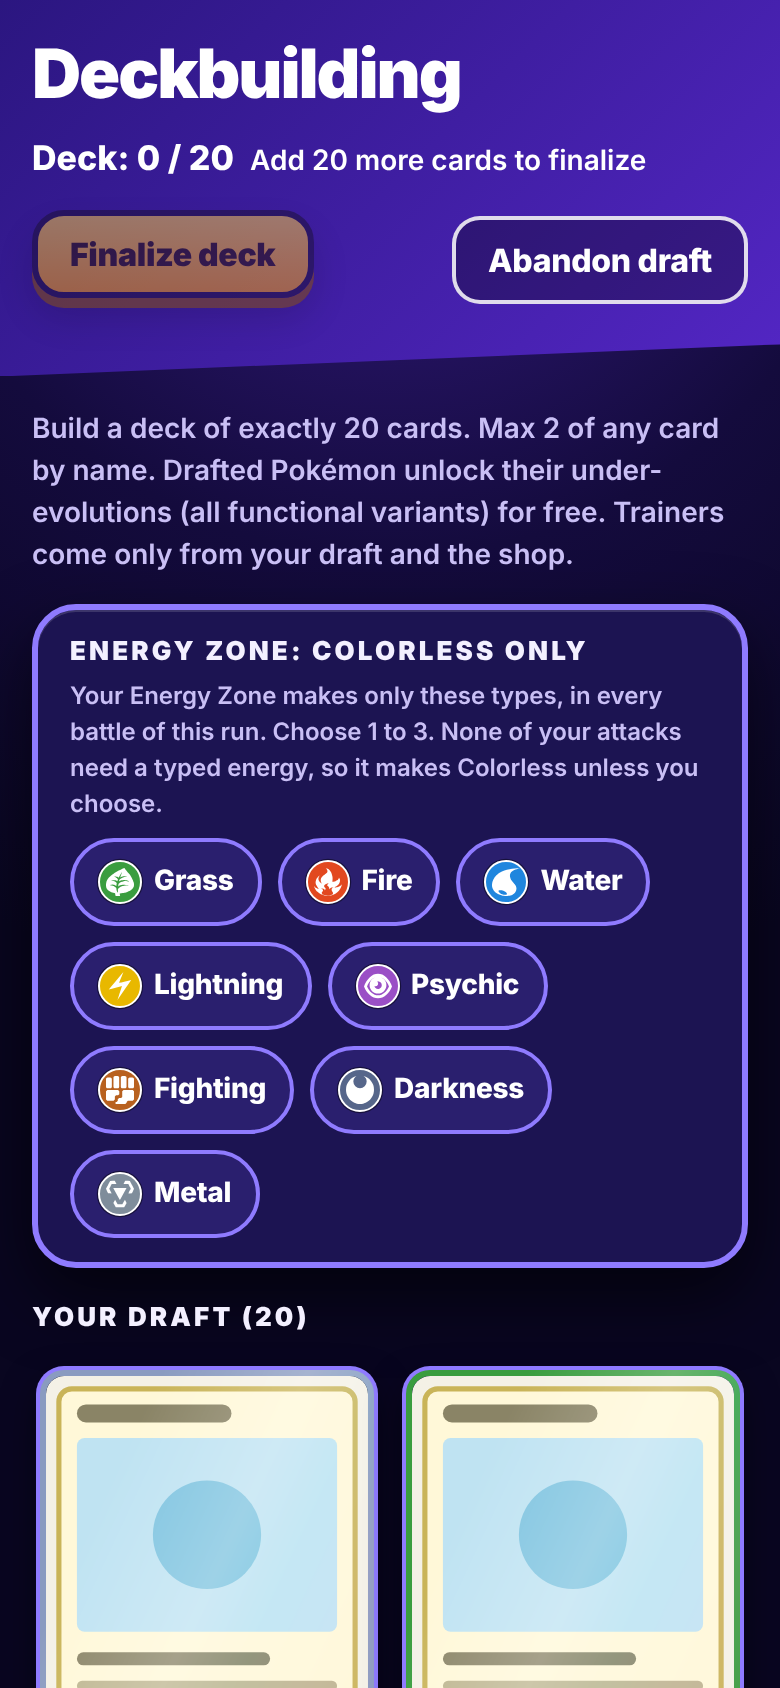
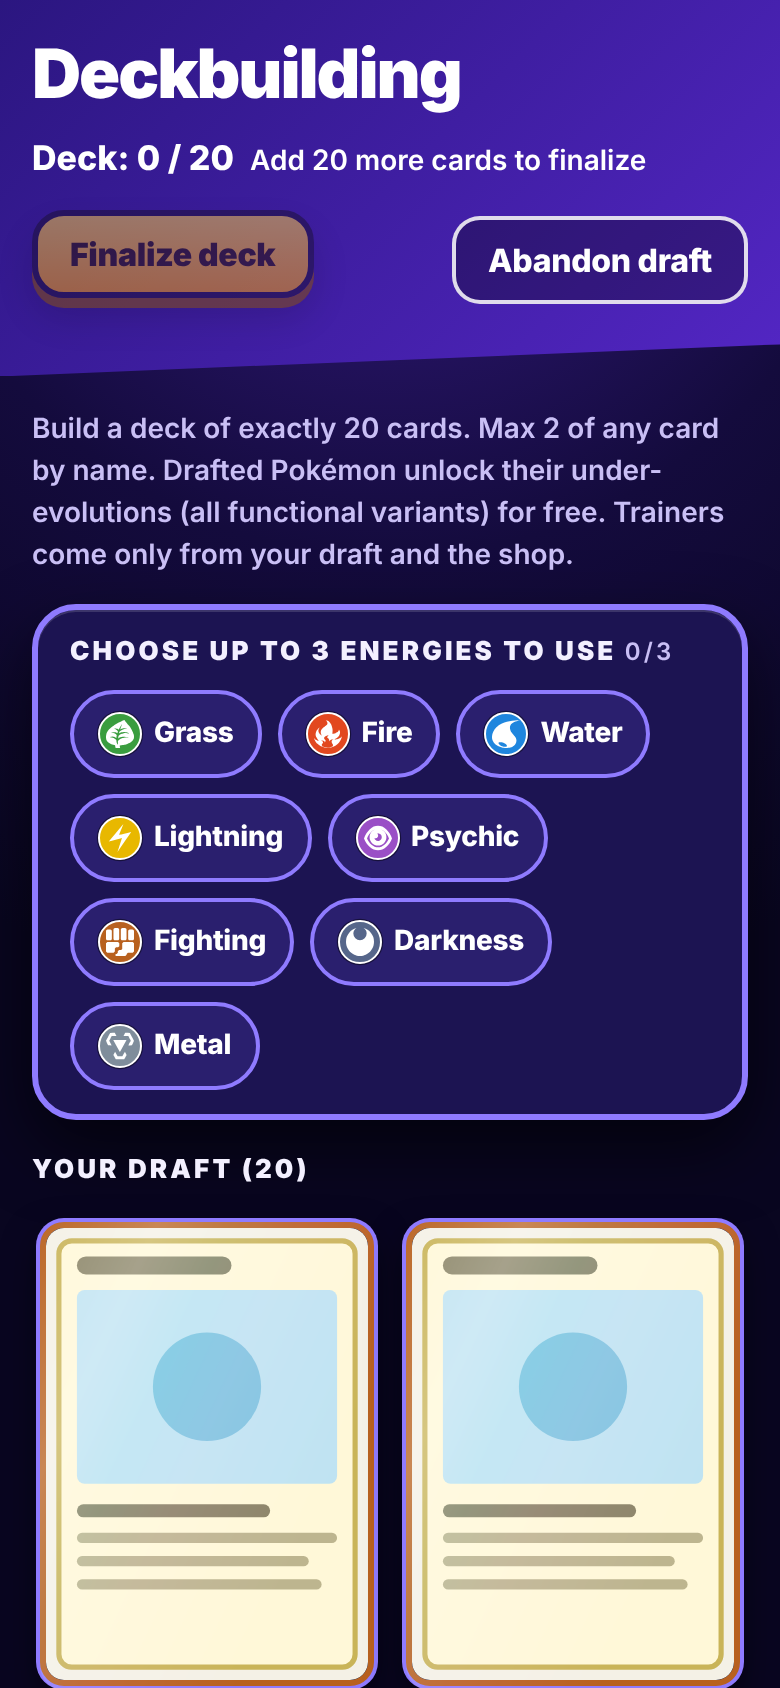
Review fixes: loading screen in the look, theme set before first paint, sheen off under reduced motion, Energy Zone count read aloud, one less line

diff --git a/e2e/energy-picker.spec.ts b/e2e/energy-picker.spec.ts
@@ -33,11 +33,11 @@ test('the Energy Zone picker reaches every battle: only Water or Fire show', asy
   // Owner 2026-10-28 (item 6): a short label, no extra lines. Empty deck: one short line.
   const picker = page.getByTestId('energy-picker');
   await expect(page.getByText('Deck: 0 / 20')).toBeVisible();
-  await expect(picker.getByRole('heading', { name: 'Choose up to 3 energies to use', exact: true })).toBeVisible();
-  await expect(picker.locator('p')).toHaveCount(1);
-  await expect(picker.locator('p')).toHaveText('No typed energy needed yet: Colorless only.');
+  await expect(picker.getByRole('heading', { name: /^Choose up to 3 energies to use/ })).toBeVisible();
+  await expect(picker.locator('p')).toHaveCount(0);
+  await expect(picker.getByTestId('energy-count')).toHaveText('0/3');
 
-  // Fill the deck first so the default (from the deck's Pokémon types) is on show.
+  // Fill the deck first so the default (from the deck's attack costs) is on show.
   const drafted = page.locator('section', { has: page.getByRole('heading', { name: /^Your draft/ }) });
   const plus = drafted.getByRole('button', { name: '+' });
   for (let i = 0; i < (await plus.count()); i++) {
@@ -66,7 +66,7 @@ test('the Energy Zone picker reaches every battle: only Water or Fire show', asy
 
   await choose(page, ['Water', 'Fire']);
   await expect(picker.locator('button[aria-pressed="true"]')).toHaveCount(2);
-  await expect(picker.getByRole('heading', { name: 'Choose up to 3 energies to use', exact: true })).toBeVisible();
+  await expect(picker.getByRole('heading', { name: /^Choose up to 3 energies to use/ })).toBeVisible();
   await expect(picker.getByTestId('energy-count')).toHaveText('2/3');
 
   await picker.scrollIntoViewIfNeeded();

diff --git a/docs/chief/look/m4-blend/render.spec.ts b/docs/chief/look/m4-blend/render.spec.ts
@@ -40,6 +40,8 @@ const settled = (page: Page) =>
 async function shot(page: Page, name: string, theme: Theme) {
   await page.evaluate(() => window.scrollTo(0, 0));
   await settled(page);
+  // The sheen is off under reduced motion, so shots run with motion on and every sheen frozen mid-sweep.
+  await page.addStyleTag({ content: '.look *::after { animation-play-state: paused !important; animation-delay: -1.1s !important; }' });
   await page.waitForTimeout(300);
   await page.screenshot({ path: path.join(OUT, `${name}-${theme}-390.png`) });
 }
@@ -57,7 +59,7 @@ test('every non-battle screen, light then dark', async ({ page }) => {
   const snap: Record<string, string> = {};
 
   // ---- light: drive the app ----
-  await page.emulateMedia({ colorScheme: 'light' });
+  await page.emulateMedia({ colorScheme: 'light', reducedMotion: 'no-preference' });
   await page.goto('/');
   await expect(page.getByRole('button', { name: 'Start draft' })).toBeVisible();
   await shot(page, 'home', 'light');
@@ -117,7 +119,7 @@ test('every non-battle screen, light then dark', async ({ page }) => {
   await summaryWon('light');
 
   // ---- dark: the same states, seeded ----
-  await page.emulateMedia({ colorScheme: 'dark' });
+  await page.emulateMedia({ colorScheme: 'dark', reducedMotion: 'no-preference' });
   await page.evaluate(() => localStorage.clear());
   await page.goto('/');
   await expect(page.getByRole('button', { name: 'Start draft' })).toBeVisible();

diff --git a/src/components/DeckbuildView.tsx b/src/components/DeckbuildView.tsx
@@ -2,7 +2,7 @@ import { useMemo, useState } from 'react';
 import { announce } from '../announce';
 import { AbandonDraft } from './AbandonDraft';
 import { EnergyIcon, TypeTally } from '../battle/energy';
-import { defaultZoneTypes, MAX_ZONE_TYPES, ZONE_FALLBACK, ZONE_TYPES } from '../game/energy';
+import { defaultZoneTypes, MAX_ZONE_TYPES, ZONE_TYPES } from '../game/energy';
 import type { Card, EnergyType } from '../types/card';
 import { DECK_SIZE } from '../stores/draftStore';
 import {
@@ -237,15 +237,10 @@ export function DeckbuildView({
         <div className="zone-picker" role="group" data-testid="energy-picker" aria-labelledby="zone-title">
           <h2 id="zone-title" className="section-title" style={{ color: 'var(--color-text)', margin: '0 0 8px' }}>
             Choose up to {MAX_ZONE_TYPES} energies to use{' '}
-            <span data-testid="energy-count" className="muted-xs" aria-hidden="true">
+            <span data-testid="energy-count" className="muted-xs">
               {zone.length}/{MAX_ZONE_TYPES}
             </span>
           </h2>
-          {zone.length === 0 && (
-            <p className="muted-xs" style={{ margin: '0 0 8px' }}>
-              No typed energy needed yet: {ZONE_FALLBACK} only.
-            </p>
-          )}
           <div className="zone-picker-row" role="group" aria-label="Energy Zone types">
             {ZONE_TYPES.map((t) => {
               const on = zone.includes(t);

diff --git a/e2e/theme-toggle.spec.ts b/e2e/theme-toggle.spec.ts
@@ -86,3 +86,21 @@ test('a page whose storage is blocked still opens, on Auto, and the toggle still
   await option(page, 'Dark').click();
   expect(await pageColour(page)).toBe(DARK_PAGE);
 });
+
+test('a saved choice is set by index.html before any app script runs', async ({ page }) => {
+  await page.emulateMedia({ colorScheme: 'light' });
+  await page.addInitScript(() => localStorage.setItem('pocket-draft-theme', 'dark'));
+  await page.route('**/src/main.tsx*', (r) => r.abort()); // no app code at all
+  await page.goto('/');
+  expect(await themeAttr(page)).toBe('dark');
+});
+
+test('the holo sheen is off under reduced motion', async ({ page }) => {
+  const sheen = () =>
+    page.evaluate(() => getComputedStyle(document.querySelector('.home-primary')!, '::after').display);
+  await page.emulateMedia({ reducedMotion: 'no-preference' }); // the suite runs reduced by default
+  await home(page);
+  expect(await sheen()).not.toBe('none');
+  await page.emulateMedia({ reducedMotion: 'reduce' });
+  await expect.poll(sheen).toBe('none');
+});

diff --git a/src/look.css b/src/look.css
@@ -493,14 +493,14 @@ body {
   35%, 100% { background-position: 100% 0; }
 }
 
-/* Reduced motion: the sheen holds still as a fixed diagonal glint; the main button does not move. */
+/* Reduced motion: the sheen is off (owner, 2026-10-28); the main button does not move. */
 @media (prefers-reduced-motion: reduce) {
   .look :is(.tile-lg, .tile-sm)::after,
   .look :is(.btn-primary, .run-btn-primary, .home-primary)::after,
   .look .run-summary[data-status='won'] h1.run-status::after {
     animation: none;
-    background-position: 40% 0;
     transition: none;
+    display: none;
   }
   .look :is(.btn-primary, .run-btn-primary, .home-primary) { transition: none; }
   .look :is(.btn-primary, .run-btn-primary, .home-primary):active:not(:disabled) { transform: none; }

diff --git a/index.html b/index.html
@@ -4,6 +4,13 @@
     <meta charset="UTF-8" />
     <meta name="viewport" content="width=device-width, initial-scale=1.0" />
     <title>Pocket Draft</title>
+    <script>
+      // A saved Light / Dark choice, set before the CSS paints (src/theme.ts does the same).
+      try {
+        var t = localStorage.getItem('pocket-draft-theme');
+        if (t === 'light' || t === 'dark') document.documentElement.setAttribute('data-theme', t);
+      } catch (e) {}
+    </script>
   </head>
   <body>
     <div id="root"></div>

diff --git a/docs/chief/look/m4-blend/render.config.ts b/docs/chief/look/m4-blend/render.config.ts
@@ -15,7 +15,7 @@ export default defineConfig({
   testDir: here,
   testMatch: ['render.spec.ts'],
   outputDir: path.join(root, 'test-results/m4-blend'),
-  // Screenshots are taken with reduced motion, so the holo sheen is the still glint (deterministic).
+  // render.spec.ts turns motion on and freezes the holo sheen mid-sweep, so shots are deterministic.
   use: { ...base.use, viewport: { width: 390, height: 844 }, deviceScaleFactor: 2 },
   webServer: servers.map((s) => ({ ...s, cwd: root })),
 });

diff --git a/src/App.tsx b/src/App.tsx
@@ -205,7 +205,7 @@ export function App() {
   if (replayed) return screen('replay', <ReplayView battle={replayed} onExit={closeReplay} />);
 
   if (error) return screen('error', <main role="alert" style={{ padding: 24 }}>Error: {error}</main>);
-  if (!pool) return <main role="status" style={{ padding: 24 }}>Loading card data…</main>;
+  if (!pool) return screen('loading', <main role="status" style={{ padding: 24 }}>Loading card data…</main>);
 
   if (sharedDeck) {
     return screen('shared', (

diff --git a/src/data/index.ts b/src/data/index.ts
@@ -27,6 +27,7 @@ export async function loadCardPool(): Promise<CardPool> {
     loadSets(),
     loadDraftPoolFilter(),
   ]);
+  if (!poolFilter.supportTypes) console.warn('draft-pool.json has no supportTypes; Trainer type support falls back to the types their text names');
   setSupportTypes(poolFilter.supportTypes ?? null);
   const draftableCards = keepWorkingText(toDraftablePool(allCards), poolFilter);
   const fullCards = toFullCardPool(allCards);

diff --git a/src/main.tsx b/src/main.tsx
@@ -9,7 +9,7 @@ import './index.css';
 import './screens.css';
 import './look.css';
 
-// Before the first paint, so a saved Light / Dark choice never flashes the other theme.
+// index.html's inline script sets it before the first paint; this is the backstop.
 applyTheme(readTheme());
 
 const root = createRoot(document.getElementById('root')!);

diff --git a/docs/milestones/M4.md b/docs/milestones/M4.md
@@ -116,7 +116,7 @@ Your answers of 2026-10-28 are in [`docs/decisions/2026-10-28-m4-review-answers.
 2. **Look:** answered, "get the best of all 3". Built as one blended look on every screen outside battle: C's structure and run screen, A's heavier type and outlines, B's foil shine, light and dark with a toggle. See [Look, 2026-10-28](#look-2026-10-28).
 3. **Type lean strength:** answered, keep it and add a cap. See [Draft rules, 2026-10-28](#draft-rules-2026-10-28) for the cap and its numbers.
 4. **Type-support Trainers:** answered, the card text decides; the hand list is only a fallback.
-5. **Niche groups:** answered. Ancient / Future count only when the card says so; Koraidon and Miraidon are out.
+5. **Niche groups:** answered. Ancient / Future count only when the card says so: the older B2a Koraidon and Miraidon are out (in the draft and for the Booster Energy Capsules in battle); Koraidon ex and Miraidon ex still count.
 6. **Eevee ex:** answered, both directions.
 7. **Eevee ex rule readings:** dropped as badly framed; the card text rules. Alolan Muk's text turns off Eevee ex's Ability, so it can't use Veevee ’volve while Muk is in play.
 8. **Energy Zone picker wording:** answered, far less wordy: "Choose up to 3 energies to use", default from the deck's attack costs.

diff --git a/docs/chief/look/m4-blend/README.md b/docs/chief/look/m4-blend/README.md
@@ -24,8 +24,8 @@ node docs/chief/look/m4-blend/contrast.cjs --md     # the table below
 
 The light pass drives the real app (20 picks, skip shop, build, one conceded battle, quit) and keeps
 localStorage at each screen; the dark pass seeds those copies. Card art can't load in the cloud
-sandbox, so every card is the same placeholder face. Screenshots use reduced motion, so the holo
-sheen shows as its still glint.
+sandbox, so every card is the same placeholder face. Screenshots run with motion on and the holo
+sheen frozen mid-sweep.
 
 ## What each direction gave
 
@@ -38,7 +38,7 @@ sheen shows as its still glint.
   chips and card frames. No sunburst, no italic caps, no hard offset shadows.
 - **B · Holo Night (shine + dark):** a diagonal foil sheen on every card tile, the main button and a
   won run's title plate; stronger on a hovered, focused or selected (bought / in deck) card. It sweeps
-  once every 6 s; with `prefers-reduced-motion: reduce` it is a still glint. The dark theme is B's
+  once every 6 s; with `prefers-reduced-motion: reduce` it is off. The dark theme is B's
   indigo night with C's structure.
 
 ## Theme
